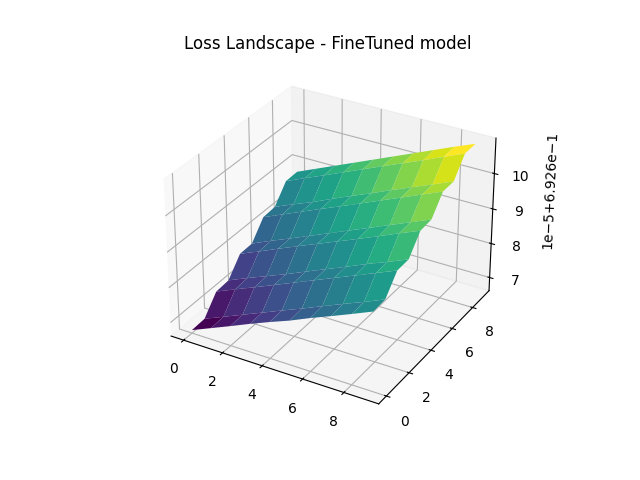
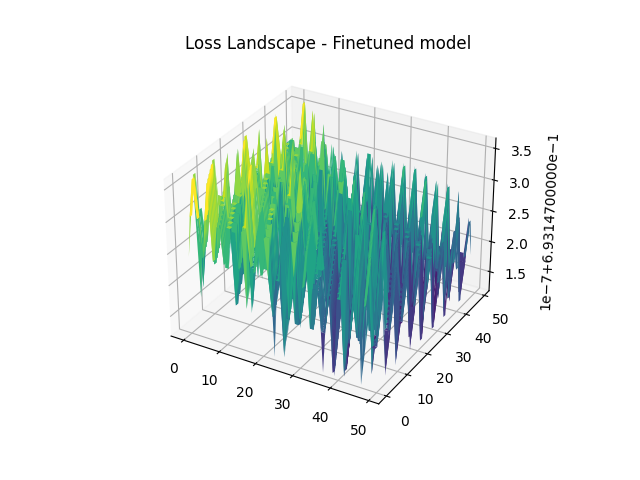
Visualizer code updated for contour and 3d maps

diff --git a/loss_visualizer.py b/loss_visualizer.py
@@ -2,7 +2,6 @@ import torch
 import numpy as np
 import matplotlib.pyplot as plt
 from datasets import load_dataset
-from mpl_toolkits.mplot3d import Axes3D
 from transformers import RobertaTokenizer, RobertaForSequenceClassification
 from torch.utils.data import DataLoader
 from torch.optim import Adam
@@ -10,12 +9,17 @@ import loss_landscapes
 import loss_landscapes.metrics
 from loss_landscapes.model_metrics import Metric
 from loss_landscapes.model_interface.model_wrapper import ModelWrapper
+import pickle
 
+"""
+Visualizing using https://github.com/marcellodebernardi/loss-landscapes
+"""
 
 dataset = load_dataset("glue", "sst2")
 
 
 checkpoint_path = './best_model_ckpt_ft'
+file_suffix = "ft" if "ft" in checkpoint_path else "mz"
 tokenizer = RobertaTokenizer.from_pretrained('roberta-base')
 model = RobertaForSequenceClassification.from_pretrained(checkpoint_path)
 
@@ -39,10 +43,9 @@ def tokenize_function(examples):
 train_dataset = dataset['train'].map(tokenize_function, batched=True)
 test_dataset = dataset['test'].map(tokenize_function, batched=True)
 
-train_dataset = train_dataset.select(range(10))
-train_loader = DataLoader(train_dataset, batch_size=8, shuffle=True)
-for batch in train_loader:
-    print(batch['label'])
+# train_dataset = train_dataset.select(range(16))
+train_loader = DataLoader(train_dataset, batch_size=8, shuffle=True, collate_fn=lambda x: x)
+
 
 class LLMModelWrapper(ModelWrapper):
     def __init__(self, model: torch.nn.Module):
@@ -67,8 +70,8 @@ class RobertaLoss(Metric):
     def __call__(self, model_wrapper: LLMModelWrapper) -> float:
         # Get the input data
         inputs = self.inputs
-        targets = self.target
-        print("BBBBB", targets)
+        targets = torch.Tensor(self.target)
+        targets = targets.type(torch.LongTensor)
         # Forward pass using the model wrapped in SimpleModelWrapper
         outputs = model_wrapper.forward(inputs)
         logits = outputs.logits
@@ -78,20 +81,46 @@ class RobertaLoss(Metric):
 wrapped_model = LLMModelWrapper(model)
 
 loss_fn = torch.nn.CrossEntropyLoss()
-inputs_batch = next(iter(train_loader))
 
-inputs = inputs_batch['sentence']
-labels = inputs_batch['label']
+inputs_batch = next(iter(train_loader))
+inputs = [item['sentence'] for item in inputs_batch]
+labels = [item['label'] for item in inputs_batch]
+
+# print("inputs: ", inputs)
+# print("labels: ", labels)
 
 metric = RobertaLoss(loss_fn, inputs, labels)
-STEPS = 10
+STEPS = 50
 loss_data_fin = loss_landscapes.random_plane(wrapped_model, metric, 10, STEPS, normalization='filter', deepcopy_model=True)
 print("Visualizing")
 print(loss_data_fin)
-fig = plt.figure()
-ax = plt.axes(projection='3d')
-X = np.array([[j for j in range(STEPS)] for i in range(STEPS)])
-Y = np.array([[i for _ in range(STEPS)] for i in range(STEPS)])
-ax.plot_surface(X, Y, loss_data_fin, rstride=1, cstride=1, cmap='viridis', edgecolor='none')
-ax.set_title('Loss Landscape - FineTuned model')
-fig.savefig("loss_landscape_ft.png")
+
+try:
+    fig = plt.figure()
+    plt.contour(loss_data_fin, levels=50)
+    if file_suffix == "mz":
+        plt.title('Loss Contours around Trained Model - MeZO model')
+    elif file_suffix == "ft":
+        plt.title('Loss Contours around Trained Model - Finetuned model')
+    file_name = "loss_contour_"+ file_suffix +".png"
+    fig.savefig(file_name)
+except:
+    file = open('dump.txt', 'wb')
+    pickle.dump(loss_data_fin, file)
+    file.close()
+
+
+try:
+    fig = plt.figure()
+    ax = plt.axes(projection='3d')
+    X = np.array([[j for j in range(STEPS)] for i in range(STEPS)])
+    Y = np.array([[i for _ in range(STEPS)] for i in range(STEPS)])
+    ax.plot_surface(X, Y, loss_data_fin, rstride=1, cstride=1, cmap='viridis', edgecolor='none')
+    if file_suffix == "mz":
+        ax.set_title('Loss Landscape - MeZO model')
+    elif file_suffix == "ft":
+        ax.set_title('Loss Landscape - Finetuned model')
+    file_name = "loss_landscape_"+ file_suffix +".png"
+    fig.savefig(file_name)
+except:
+    pass
